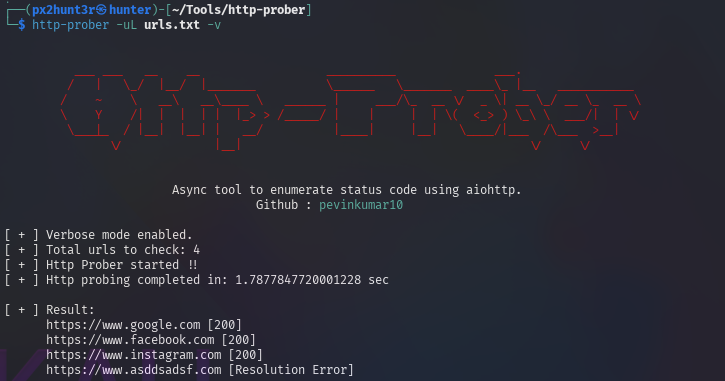
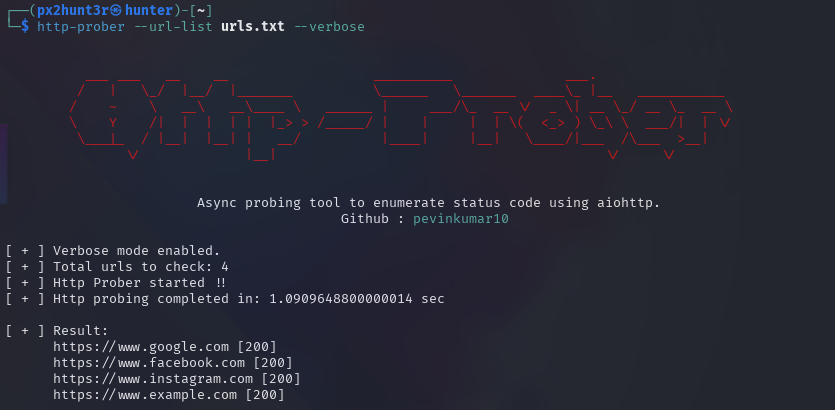
docs(readme): updated readme file

diff --git a/README.md b/README.md
@@ -58,6 +58,17 @@
 
 ## Installation:
 
+### Install it from PyPi:
+
+```bash
+
+pipx install Http-Prober
+```
+
+This will install the tool in an isolated environment (Recommended). 
+
+### Manual Installation:
+
 - Step 1:
     ```bash
     git clone https://github.com/pevinkumar10/http-prober.git
@@ -79,7 +90,7 @@
     
     or
 
-    Install it as a tool by setup.py (Recommended):
+    Install it as a tool by setup.py:
 
     ```
     pipx install .
@@ -107,7 +118,7 @@
   
 ```bash
 
-    http-prober -uL urls.txt -v 
+    http-prober --url-list urls.txt --verbose
 
 ```
 
